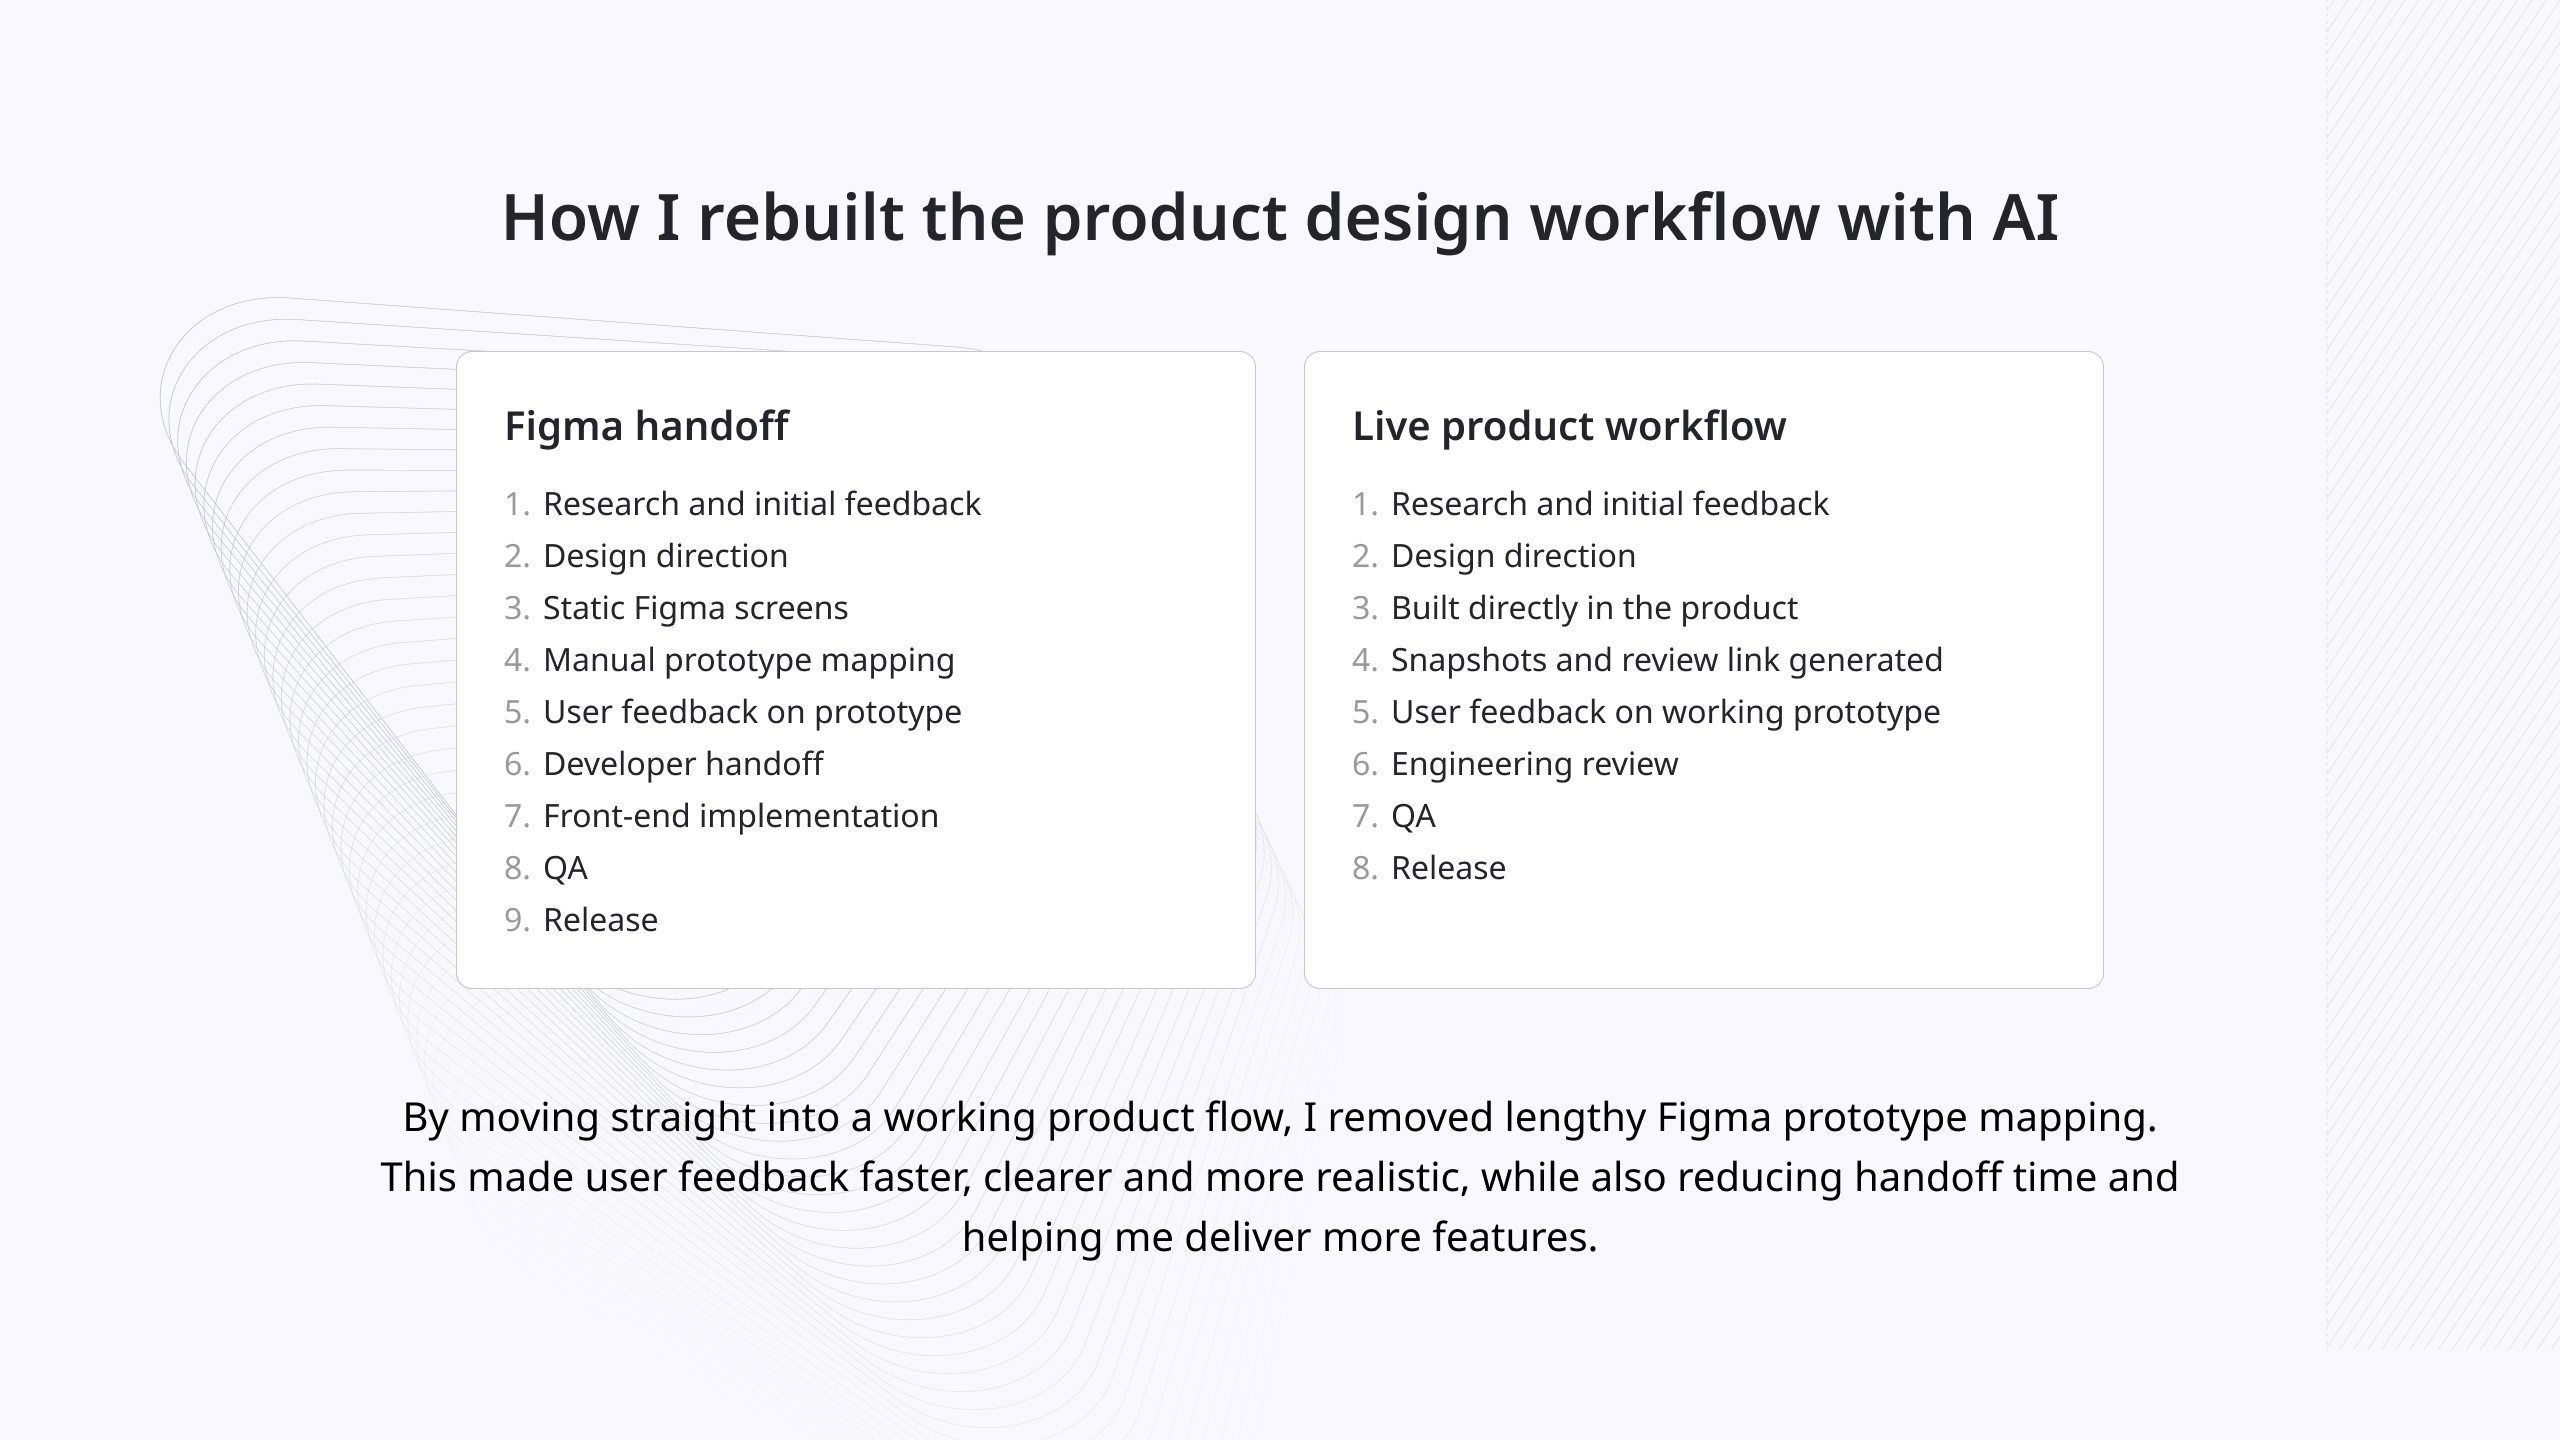
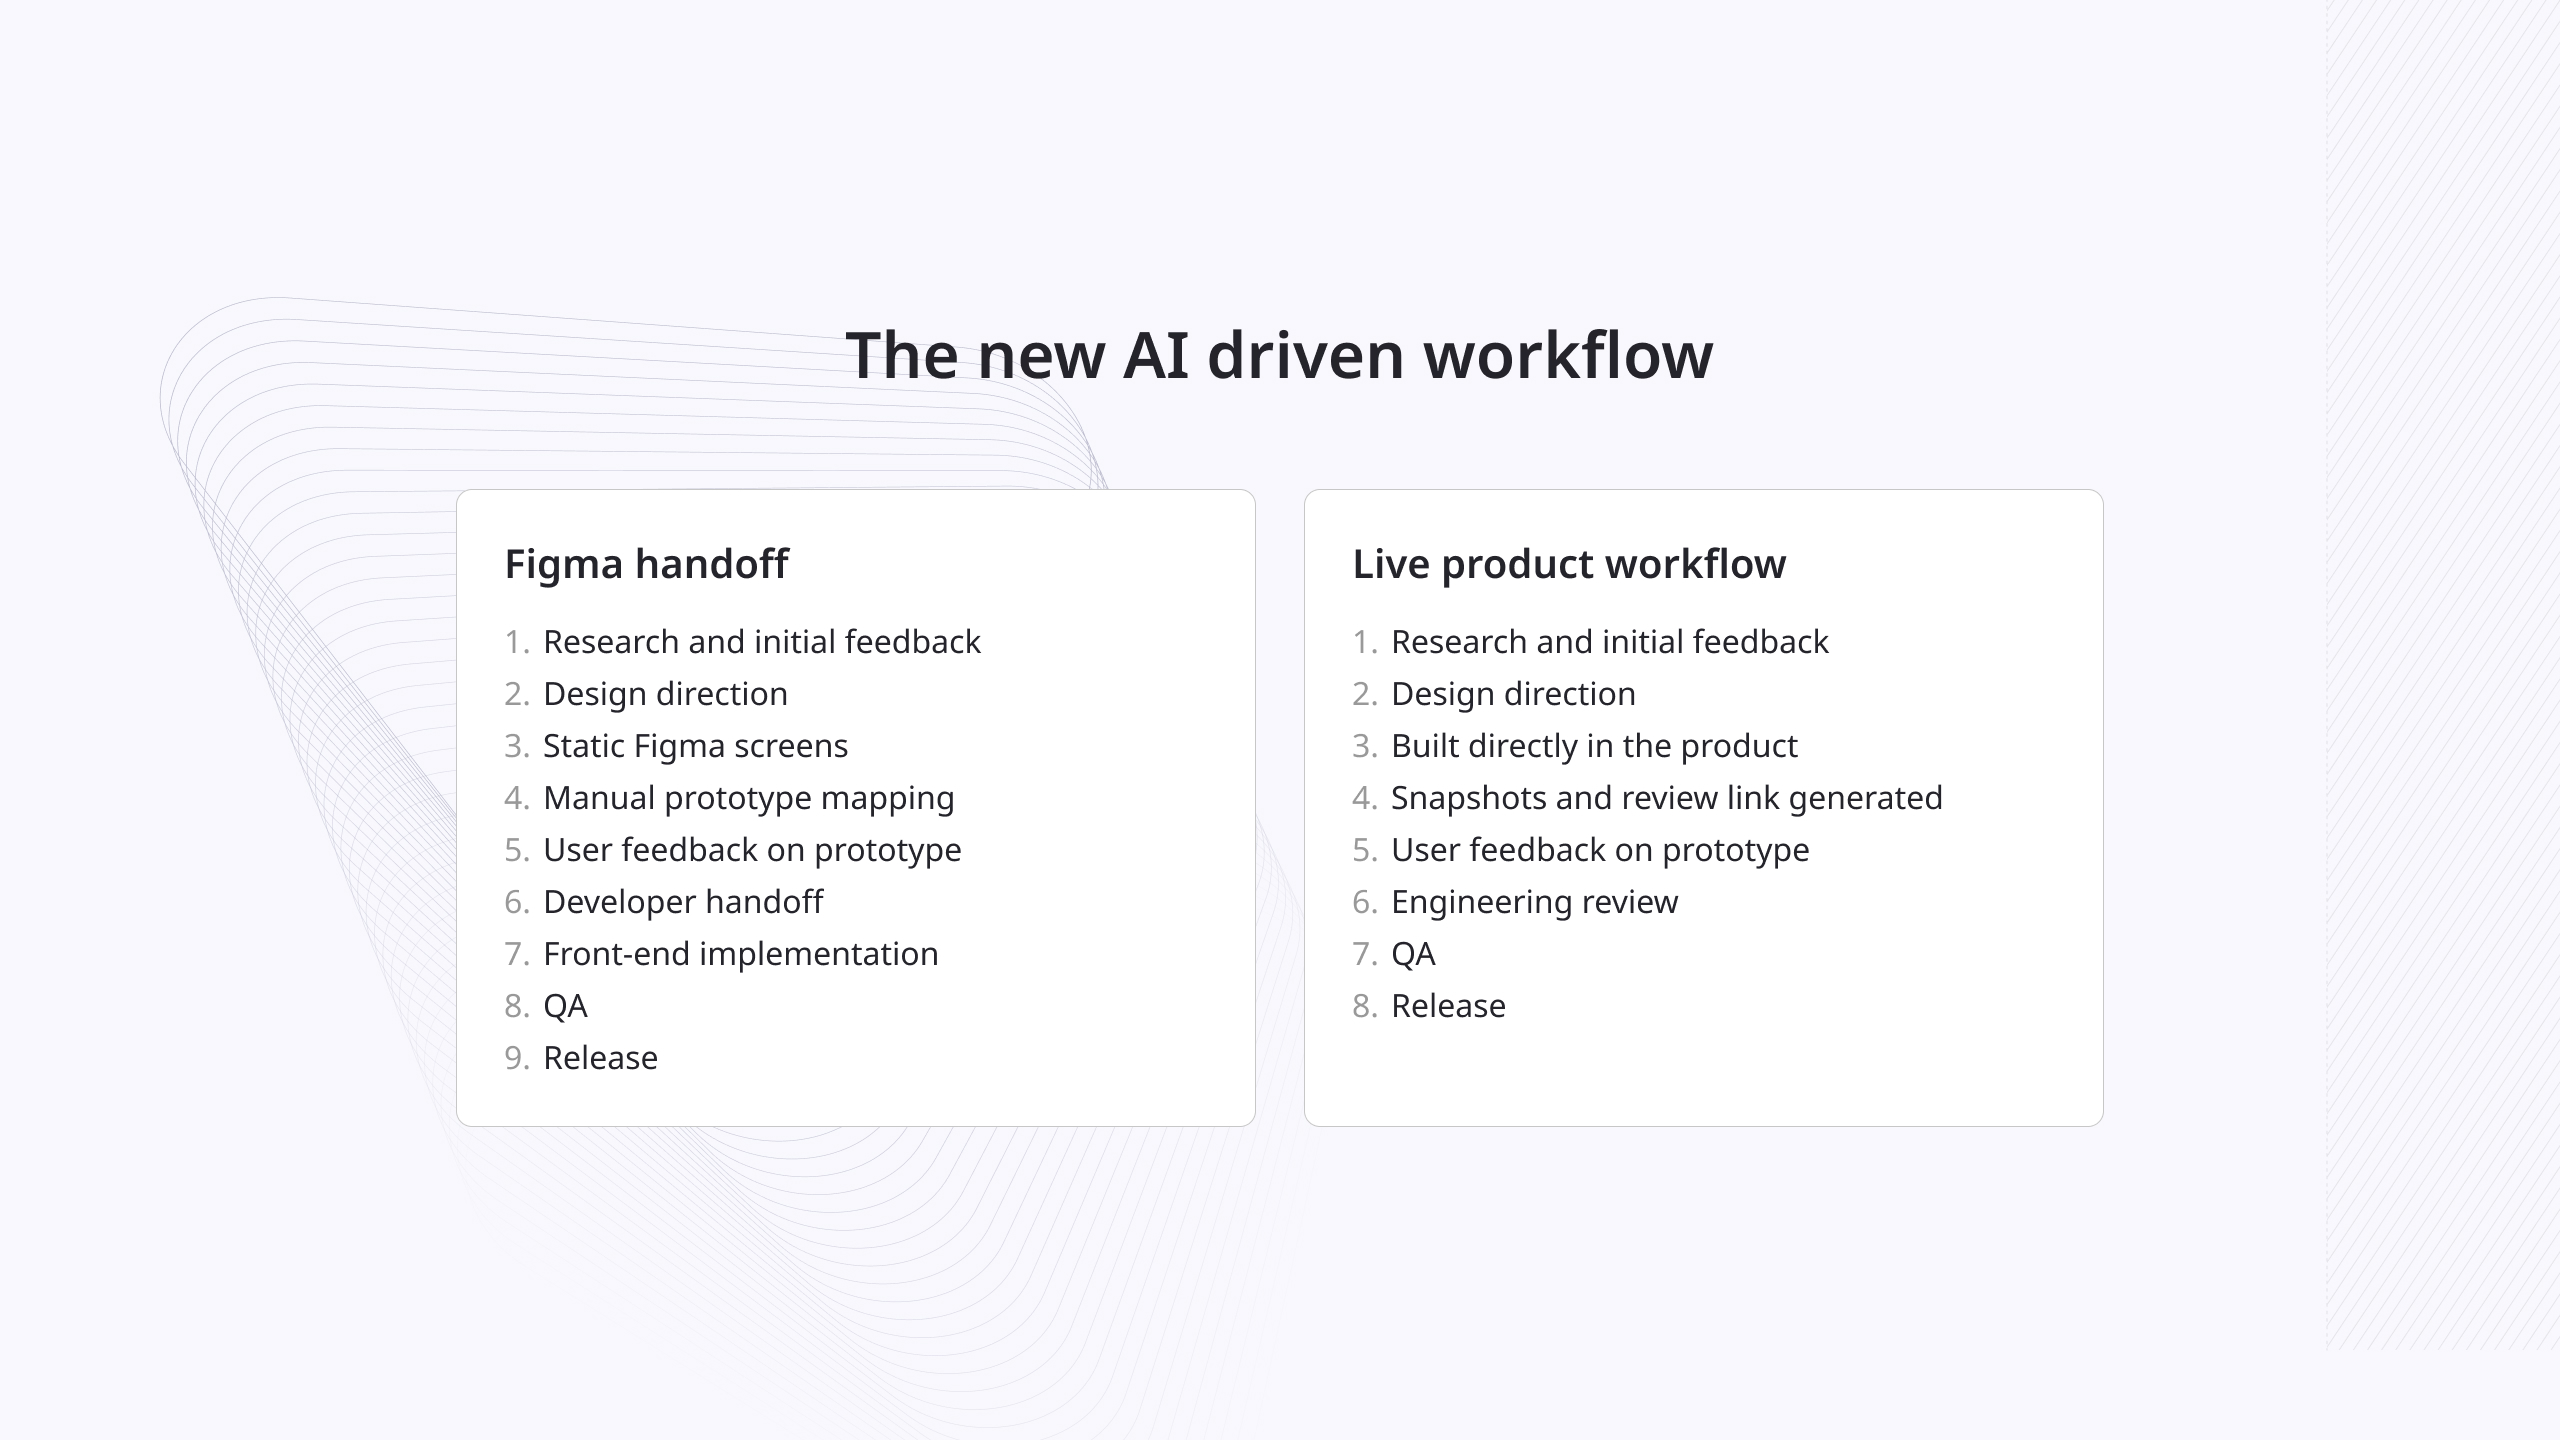
askjdakjdsa

diff --git a/p4-dam.html b/p4-dam.html
@@ -39,10 +39,9 @@
       <div class="width-container">
         <div class="header-content">
           <div class="project-header-title-block">
-          <h1>Case Study: Turning Claude Code into a Functional Product Delivery System</h1>
+          <h1>Building an AI workflow that saved our front-end team and helped us produce more features.</h1>
           <div class="project-summary">
-            <p>The core impact was that I transformed access to Claude Code into a real, functional product delivery system.</p>
-            <p>By moving from static design handoff to functional code handoff, I increased feature output by at least 20%, reduced developer clarification by 50% to 60%, created a faster feedback loop with users, and established a repeatable workflow that is now influencing how the wider design organisation approaches AI-assisted delivery.</p>
+            <p>When our front-end capacity dropped sharply, I rebuilt the design handoff around working product code instead of static screens. What started as a way to keep delivery moving became a repeatable AI-assisted workflow that helped designers, developers, and users get closer to the product earlier.</p>
           </div>
 
           <p class="project-meta">
@@ -54,27 +53,27 @@
           </p>
           </div>
 
-          <div class="project-statistics project-statistics--four">
+          <div class="project-statistics">
             <div class="project-statistics-group">
               <h3 class="project-statistics-stat project-statistics-stat--inline">6<span class="material-symbols-outlined project-statistics-arrow" aria-hidden="true">arrow_forward</span>2</h3>
-              <p class="stat-description">Front-end capacity reduced from six developers to two</p>
+              <p class="stat-description">Front-end capacity reduced from six developers to two due to a team reduction</p>
             </div>
             <div class="project-statistics-group">
-              <h3 class="project-statistics-stat">+20%</h3>
-              <p class="stat-description">Feature output increased by at least 20%</p>
+              <h3 class="project-statistics-stat">25%</h3>
+              <p class="stat-description">More features delivered per quarter</p>
             </div>
             <div class="project-statistics-group">
               <h3 class="project-statistics-stat">50<span class="project-statistics-accent">–</span>60%</h3>
-              <p class="stat-description">Reduced developer clarification by 50% to 60% per feature by providing a higher-quality handover through functional output rather than static designs</p>
+              <p class="stat-description">Fewer developer clarification questions per feature through higher-quality handover documents and specs</p>
             </div>
             <div class="project-statistics-group">
-              <h3 class="project-statistics-stat">+50%</h3>
-              <p class="stat-description">Expected capacity improvement of up to 50% for complex features over time</p>
+              <h3 class="project-statistics-stat project-statistics-stat--inline"><span class="material-symbols-outlined project-statistics-arrow project-statistics-award-icon" aria-hidden="true">emoji_events</span>1st</h3>
+              <p class="stat-description">Won Best Designed at the company-wide internal AI hackathon in 2026</p>
             </div>
-          </div>
-          <div class="project-claude-banner project-claude-banner--header" aria-label="Claude Code on this project">
-            <img src="img/tag-icons/claude-code.svg" alt="" class="project-claude-banner__icon">
-            <p class="project-claude-banner__text"><strong>Built with Claude Code</strong>. I use AI to move faster from research to working product code.</p>
+            <div class="project-statistics-group">
+              <h3 class="project-statistics-stat">4+</h3>
+              <p class="stat-description">Designers mentored individually to improve AI systems, workflows, and team productivity</p>
+            </div>
           </div>
         </div>
       </div>
@@ -86,14 +85,16 @@
           <div class="main-content">
             <div class="project-details_text"><div class="project-paragraph project-client-description">
                 <h2>Context</h2>
-                <p>I work for an enterprise software company called Perforce, where I was responsible for designing two products within their ecosystem. For this case study, I want to focus specifically on an asset management platform called P4 DAM.</p>
-                <p>A major challenge we faced was that our delivery capacity was severely reduced. Due to internal redundancies, we went from a team of six front-end developers down to just two, and I was the sole designer supporting the product. Under our traditional workflow, designing static screens in Figma meant impossibly long lead times for implementation.</p>
-                <p>However, I was granted access to Claude Code with a generous token allowance. This is the story of how I transformed that access into a real, functional system. By handing off functional code instead of static designs, developers could simply review my work and merge it into the quarterly release.</p>
-                <p>This new process increased feature output by at least 20%, and we expect that capacity to improve by up to 50% for complex features over time.</p>
+                <p>I work for an enterprise software company called Perforce. At Perforce, I am responsible for designing two products within its ecosystem. For this case study, I want to focus specifically on an asset management platform called P4 DAM.</p>
+                <p>A major challenge emerged when, due to internal redundancies, we went from a team of six front-end developers down to two. Under our traditional workflow, designing static screens in Figma meant impossibly long lead times for implementation. This meant that without changing our method and building with new systems, we would fall behind.</p>
+                <p>However, I was granted access to Claude Code with a generous token allowance. This is the story of how I transformed that access into a real, functional system. By handing off functional code instead of static designs, developers could quickly review my work and merge it into the quarterly release with a low bounce rate.</p>
               </div>
 
               <div class="project-paragraph">
                 <h2>The Challenge</h2>
+                <p>Initially, when I was introduced to Claude Code, it felt like a completely new ecosystem, much like the recent wave of AI innovation more broadly. However, I have always been a highly systematic and organised person.</p>
+                <p>In my personal life, I am usually the one who organises meetups, keeps everything in order, and plans holidays down to the last detail. This natural inclination benefits my career, as peers often refer to me as a “design systems wizard” or a technical designer. People often describe me as organised and responsible.</p>
+                <p>While many people adopt these new AI tools out of necessity, I genuinely enjoy building systems from the ground up, having previously led and built large-scale design systems for brands such as the <a class="project-text-link" href="https://www.gsma.com/" target="_blank" rel="noopener noreferrer">GSMA</a> and <a class="project-text-link" href="https://cityfibre.com/" target="_blank" rel="noopener noreferrer">CityFibre</a>. When I was given access to these tools and a strong budget, I found it extraordinarily interesting to explore and engineer entirely new workflows.</p>
               </div>
 
 
@@ -103,21 +104,14 @@
               </div>
 
               <div class="project-paragraph">
-                <p>Initially, when I was introduced to Claude Code, it felt like a completely new ecosystem, as is common with the recent wave of AI innovation. However, I have always been a highly systematic and organised person.</p>
-                <p>In my personal life, I am the one who organises meetups, keeps everything in order, and plans holidays down to the last detail. This natural inclination benefits my career, as peers often refer to me as a “design systems wizard” or a technical designer.</p>
-                <p>While many people adopt these new AI tools out of necessity, I genuinely enjoy building systems from the ground up, having previously led and built large-scale design systems for brands like the GSMA and CityFibre. When I was given access to these tools and a strong budget, I found it extraordinarily interesting to explore and engineer entirely new workflows.</p>
-              </div>
-
-              <div class="project-paragraph">
                 <h2>The approach</h2>
-                <p>Fortunately, I was able to install the P4 DAM product locally and start building with it immediately.</p>
-                <p>While other teams in the company struggled with this due to a lack of technical knowledge or other limitations, I got up and running quickly and began editing live product code. I was able to write the code for my designs and ship it directly to developers for review with a minimal bounce rate.</p>
-                <p>Developers still spent time reviewing the work, but the review process became much more focused and efficient. By providing a higher-quality handover through functional output rather than static designs, there was significantly less iteration overall, with 50% to 60% fewer clarification questions from developers per feature.</p>
+                <p>I was able to install the P4 DAM product locally and start building with it immediately. Other teams in the company struggled with this due to a lack of technical knowledge or other limitations.</p>
+                <p>Developers still spent time reviewing the work, but the review process became much more focused and efficient. By providing a higher-quality handover through generated spec files, handover documents, and other outputs created by skills and agents I built, I reduced iteration significantly. I would estimate around 50% to 60% fewer clarification questions from developers per feature.</p>
+                <p>I was able to manage the front end entirely, taking full responsibility for it while developers only needed to review the final output. Because I can iterate much faster, release more features, and require less rework, the current process is far superior to what it was six months ago.</p>
               </div>
 
               <div class="content-image content-image--contain">
                 <img src="img/project-image/p4-dam/p4-dam-2.jpg" alt="Comparison of Figma handoff and live product workflow steps" class="image-with-caption image-with-caption--contain">
-                <figcaption>The new workflow removed a layer of prototype mapping. I moved from research and direction into working product output, then used snapshots and review links to get feedback faster.</figcaption>
               </div>
 
               <div class="content-image content-image--contain">
@@ -126,26 +120,16 @@
               </div>
 
               <div class="project-paragraph">
-                <h2>Workflow</h2>
-                <p>Consequently, I can manage the front end entirely, taking full responsibility for it while developers only need to review the final output.</p>
-                <p>With this increased responsibility, I also implemented an automated process to capture visual snapshots of the features as I build them. These snapshots are sent to users to establish a continuous, rapid feedback loop.</p>
-                <p>Because I can iterate much faster, release more features, and require less rework, the current process is far superior to what it was six months ago.</p>
-              </div>
-
-              <div class="project-paragraph">
                 <h2>Wider impact</h2>
-                <p>These workflows and systems I have built are not common throughout the wider design organisation. Typically, most other teams are still working through issues such as how to QA vibe-coded designs or how to get reliable user feedback on AI-generated UI.</p>
-                <p>In contrast, I am further ahead in this area because I have already moved beyond experimentation and developed a workflow that I know works well for our team.</p>
-                <p>I am a strong believer that you should not gatekeep these tools or hide any procedural advantage. If something improves quality, speed, or confidence, you have to share it with the team. Things are incredibly competitive in the AI space right now, and to get ahead as a company, we need everyone on board.</p>
+                <p>I strongly believe you should not gatekeep these tools or hide any procedural advantage. If something improves quality, speed, or confidence, you have to share it with the team as soon as you can. Things are incredibly competitive in the AI space right now, and to get ahead as a company, we needed everyone on board.</p>
                 <p>Not everyone moves at the same speed or picks up AI as quickly, so working together is essential. I have already mentored several junior and senior designers on how to improve their workflows and AI systems, presenting multiple times over the last few months in quarterly meetings and more sporadically in smaller sessions. The main goal has been to improve the design organisation’s workflows, raise its collective AI skills, and help more people experience those lightbulb moments when a new tip, workflow, or piece of advice suddenly makes the tool feel more accessible and exciting.</p>
-                <p>As part of this, I recently integrated a workflow that allows designers to go directly from transcribing PM notes into a functional framework to begin prototyping in Claude. This gives designers a clearer starting point, helps them move from raw product thinking into something structured, and makes AI-assisted prototyping feel more practical and repeatable.</p>
+                <p>I recently integrated a workflow that allows designers to go directly from transcribing PM notes into a functional system to begin prototyping in Claude. This gives designers a clearer starting point, helps them move from raw product thinking into something structured, and makes AI-assisted prototyping feel more practical and repeatable. This particular system won the Best Designed award during our company-wide internal AI hackathon in 2026.</p>
               </div>
 
               <div class="project-paragraph">
                 <h2>Result</h2>
-                <p>The core impact was that I transformed access to Claude Code into a real, functional product delivery system.</p>
-                <p>By moving from static design handoff to functional code handoff, I increased feature output by at least 20%, reduced developer clarification by 50% to 60%, created a faster feedback loop with users, and established a repeatable workflow that is now influencing how the wider design organisation approaches AI-assisted delivery.</p>
-                <p>My success with these initiatives caught the attention of company directors, who subsequently appointed me to an exclusive task force. As one of six designers, alongside principals and seniors, I am now responsible for building out the product roadmaps and architecting massive agentic workflows for our entire 30-person design organisation.</p>
+                <p>I transformed access to Claude Code into a real, functional product delivery system. When the team size was reduced, I ensured that output stayed high and went beyond what was previously thought possible, producing more with less without compromise.</p>
+                <p>My work mentoring other designers and building award-winning systems and workflows caught the attention of company directors, who subsequently appointed me to an exclusive task force. As one of six designers, alongside principals and other senior design managers, I am now responsible for building out the product roadmaps and agentic workflows for Perforce's design organisation.</p>
               </div>
 
               <div class="button-group">

diff --git a/style.css b/style.css
@@ -409,7 +409,7 @@ header {
   padding-bottom: 64px;
   margin-bottom: 64px;
   background:
-    linear-gradient(to top, rgba(255, 74, 0, 0.2) 0, transparent 100px),
+    linear-gradient(to top, rgba(255, 74, 0, 0.2) 0, transparent 200px),
     linear-gradient(180deg, #fff 0%, #eeedea 100%);
   overflow: hidden;
 }
@@ -489,6 +489,13 @@ header.project-header {
 
 .project-meta a {
   font-weight: 600;
+}
+
+.project-text-link {
+  color: #000;
+  font-weight: 600;
+  text-decoration: underline;
+  text-underline-offset: 2px;
 }
 
 .project-meta__sep {
@@ -1454,6 +1461,10 @@ a.side-project-card:hover {
   font-weight: 400;
   line-height: 1;
   font-variation-settings: 'FILL' 0, 'wght' 400, 'GRAD' 0, 'opsz' 20;
+}
+
+.project-statistics-stat--inline .project-statistics-award-icon.material-symbols-outlined {
+  font-size: 18px;
 }
 
 .project-header .project-statistics-stat .project-statistics-icon {